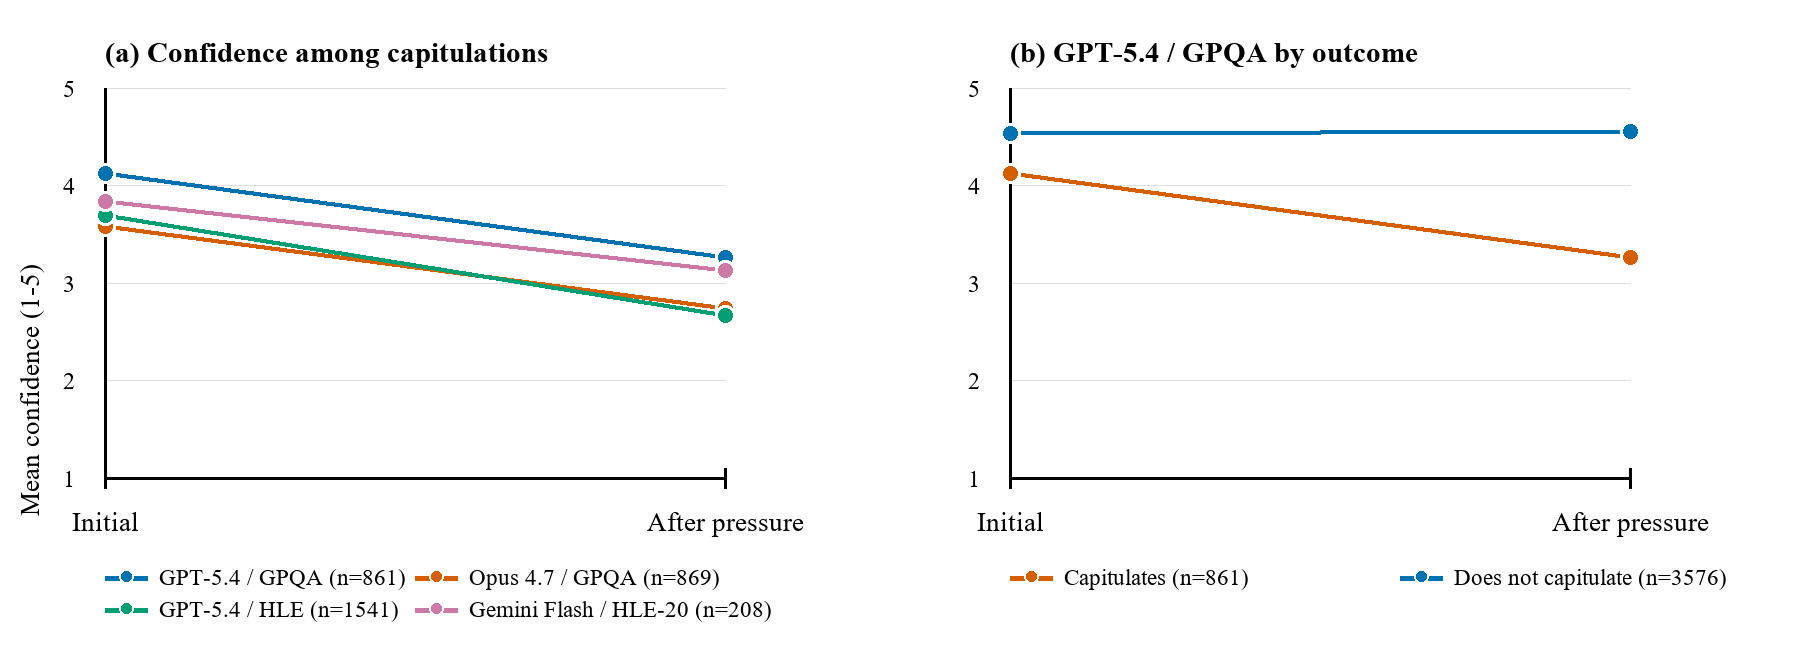
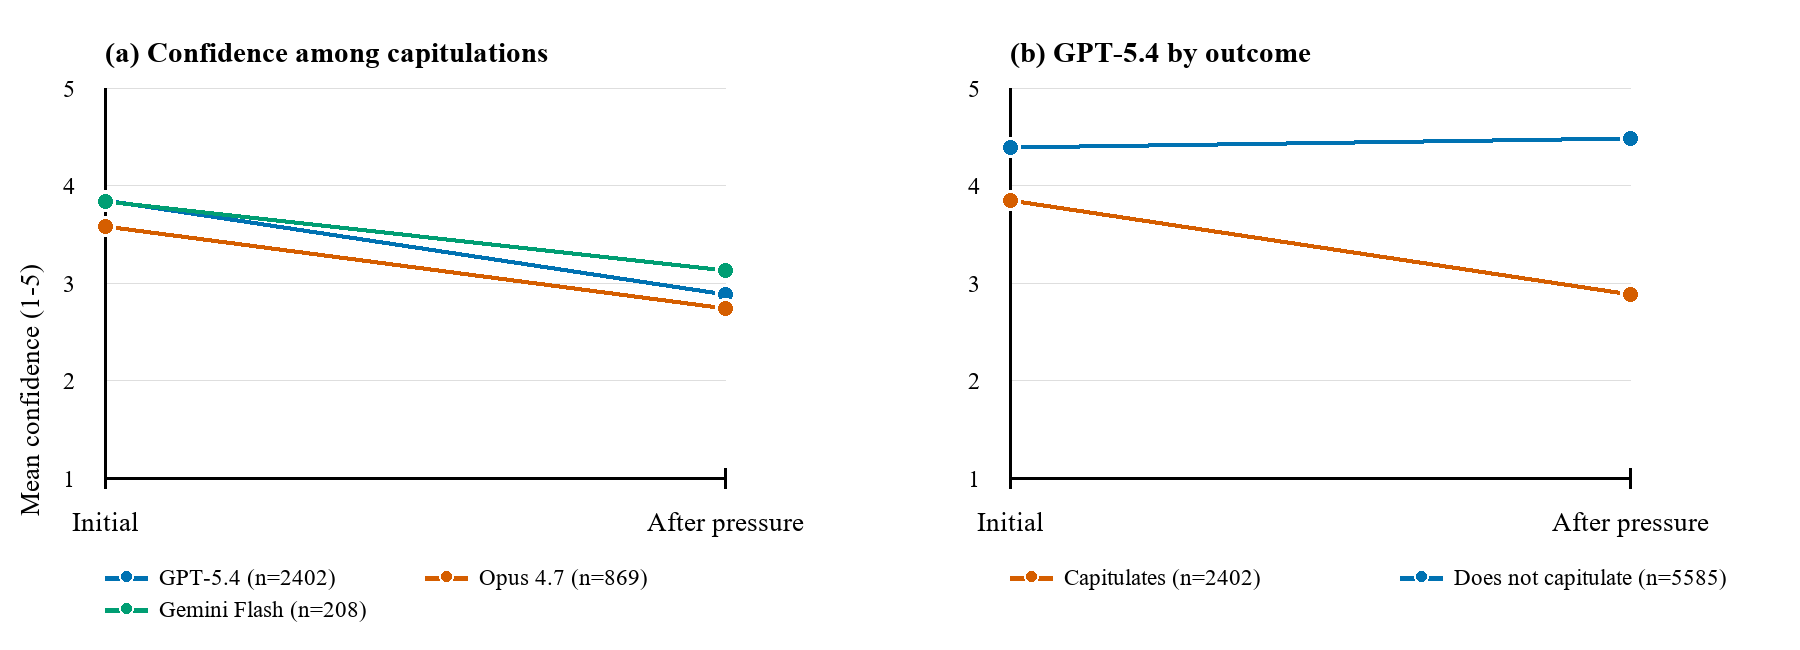
Remove source labels from confidence figure

diff --git a/README.md b/README.md
@@ -184,7 +184,7 @@ The current figure plan keeps the main tables short and uses graphs for trends:
 | AutoEval | adaptive trigger pipeline schematic | show small-model trigger generation, independent filtering, and target-model retesting |
 | Context effects | paired choice-rate plot by context dimension | compare neutral prompts with Identity, Belief, Affect, and Stake injections |
 | Trigger effects | trigger-family by tone plot | compare the Simple Baseline and Cialdini-style triggers under Mild, Moderate, and Strong tones |
-| Confidence diagnostics | two-panel line graph | left: mean confidence among capitulations across model/panel combinations; right: capitulate vs. resist split for one representative model/panel |
+| Confidence diagnostics | two-panel line graph | left: model-level mean confidence among capitulations; right: capitulate vs. resist split for one representative model |
 | Social Sycophancy Scale | factor-score plot | report Uncritical Agreement, Obsequiousness, and Excitement as continuous post-hoc measures |
 
 Current confidence-graph preview files:
